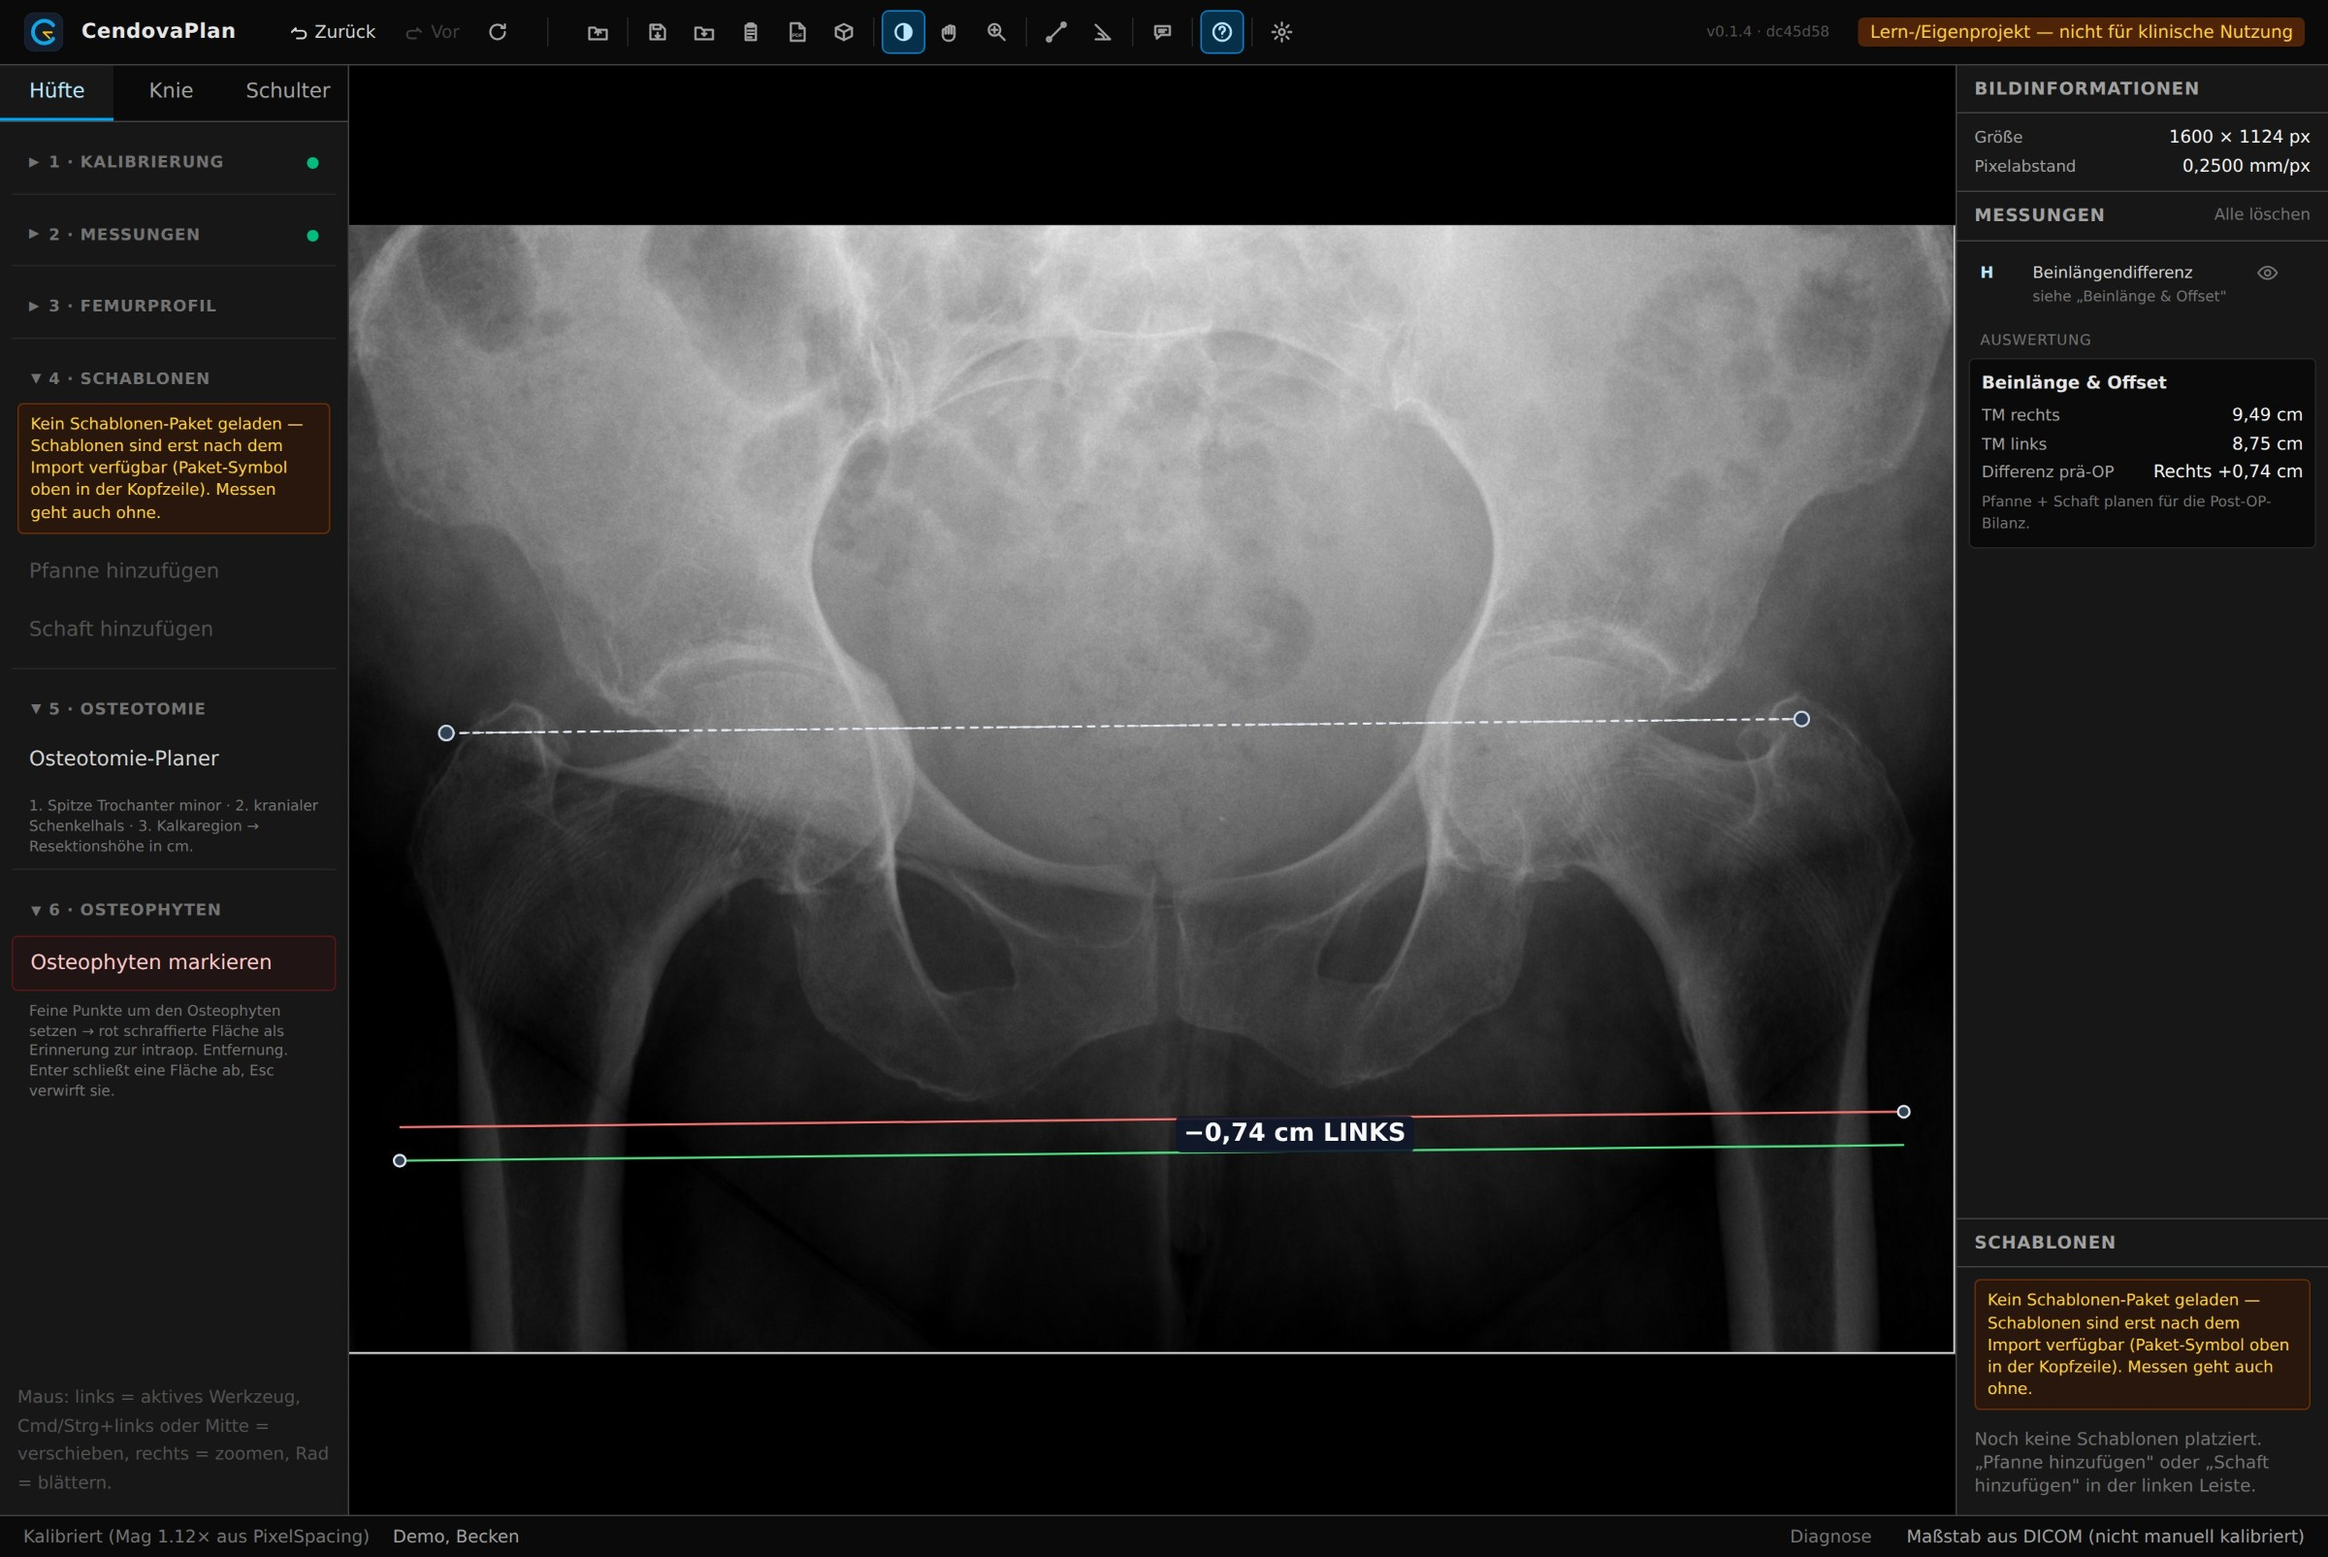
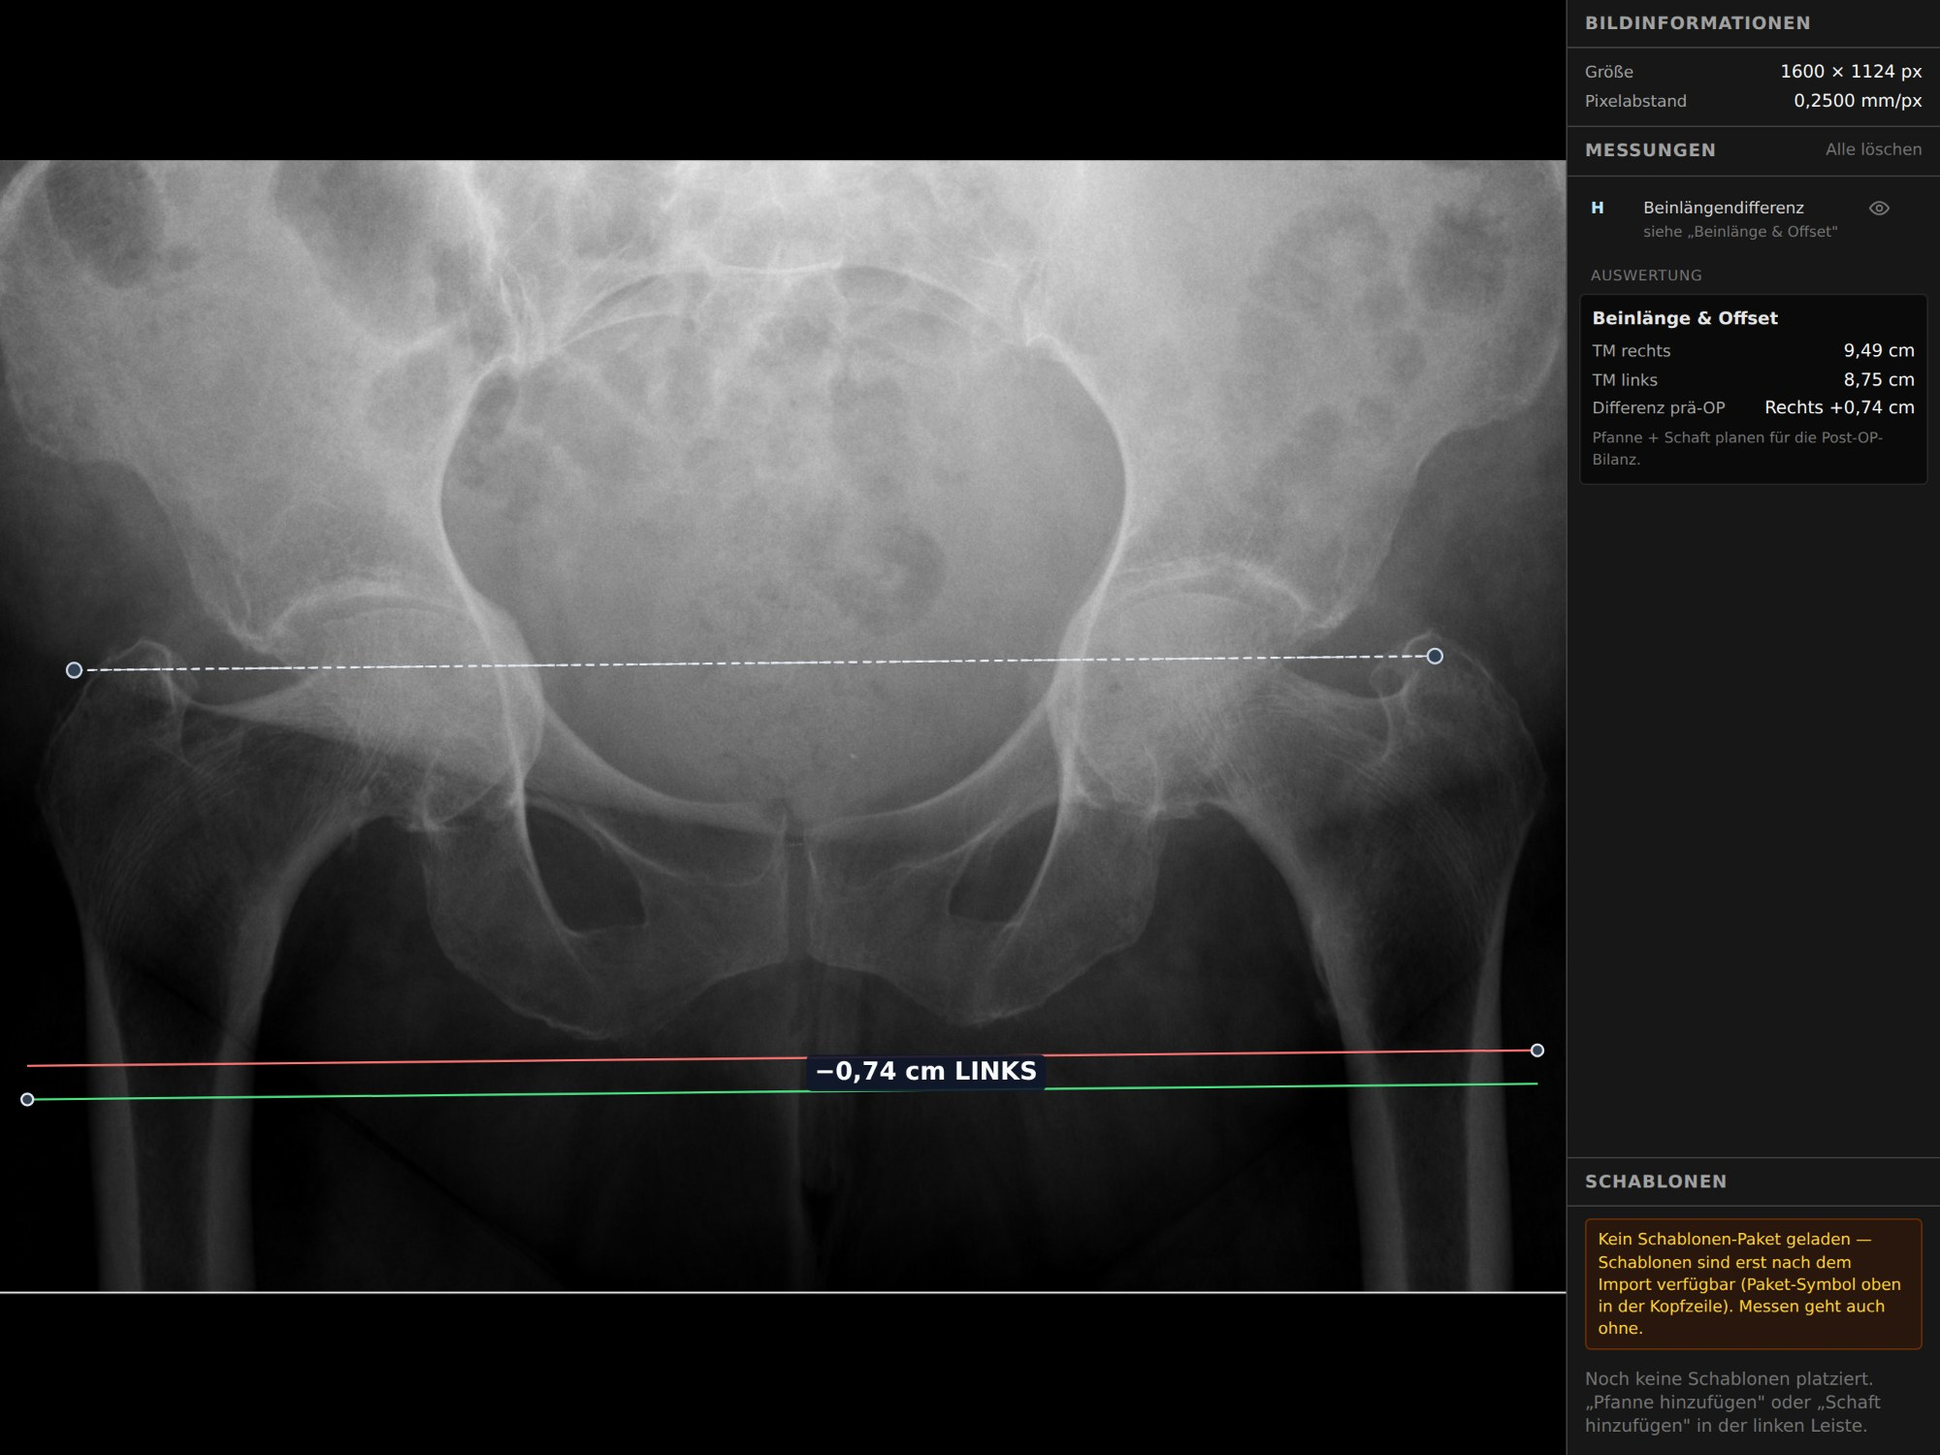
Website-Screenshots: 4:3-Kacheln ohne Beschnitt, HTO auf CC-BY-Ganzbein
- erzeuge.mjs: Kacheln = Viewport + Ergebnisspalte exakt 4:3 (Fensterbreite
  wird passend gesetzt), damit die Website-Kacheln (object-fit: cover)
  nichts mehr abschneiden. Neue Szenen: Kniezoom mit Beinachse/CPAK,
  Schulter-CSA; Szenen einzeln über SZENEN=… erzeugbar.
- Osteotomie-Kachel: öffnende HTO (Ziel 55 %) auf einer CC-BY-4.0-
  Ganzbeinaufnahme mit mildem Varus und erhaltenem Gelenkspalt
  (Stotter et al., KSSTA 2023, Abb. 1) statt des Hellerhoff-Ganzbeins mit
  Arthrose IV° — dort wäre keine Umstellung mehr indiziert.
  hole-ganzbein-varus.mjs lädt die Abbildung (Prüfsumme), schneidet das
  Panel zu und packt es per bild-zu-dicom.mjs in ein Demo-DICOM;
  landmarken-ganzbein-varus.json: 17 Punkte, Kanten objektiv per
  Gradientenprofil bestimmt (mHKA 176,6°, mMPTA 87,6°, mLDFA 90,2°).
- konvertiere.mjs: Hero 2400 px, Kacheln 2000×1500 JPEG.
- QUELLEN.md: Nachweis Stotter 2023 (CC BY 4.0) und Begründung;
  README-Bilder neu erzeugt.

Claude-Session: https://claude.ai/code/session_012brNVEzw5fZd3BC5PRrDkR

diff --git a/docs/screenshots/QUELLEN.md b/docs/screenshots/QUELLEN.md
@@ -5,9 +5,10 @@ anonymisierten Lehr-Röntgenbildern** — **keine** Patientendaten, **keine**
 Hersteller-Schablonen. Die Röntgenbilder wurden lokal über
 `scripts/bild-zu-dicom.mjs` in DICOM verpackt und in den Viewer geladen.
 
-Weil die zugrunde liegenden Röntgenbilder unter **CC BY-SA** stehen, stehen
-die davon abgeleiteten Screenshots (`.png`) unter derselben Lizenz —
-unabhängig von der Apache-2.0-Lizenz des Programmcodes.
+Weil die zugrunde liegenden Röntgenbilder unter **CC BY-SA** bzw. **CC BY**
+stehen, stehen die davon abgeleiteten Screenshots unter derselben Lizenz
+(CC BY-SA bleibt CC BY-SA, CC BY mit Namensnennung) — unabhängig von der
+Apache-2.0-Lizenz des Programmcodes.
 
 **Ausnahme:** reine UI-Mockups ohne Röntgenbild (Design-Vorlagen) enthalten
 nichts Fremdlizenziertes und stehen wie der Code unter Apache 2.0. Welcher
@@ -17,7 +18,19 @@ Eintrag was ist, steht in der Lizenzspalte der Tabelle.
 | --- | --- | --- | --- | --- |
 | `huefte-becken-ap.jpg` | „Protrusio acetabuli rechts mehr als links 81W – CR ap – 001" | Hellerhoff | [CC BY-SA 4.0](https://creativecommons.org/licenses/by-sa/4.0) | [Wikimedia Commons](https://commons.wikimedia.org/wiki/File:Protrusio_acetabuli_rechts_mehr_als_links_81W_-_CR_ap_-_001.jpg) |
 | `knie-ganzbein.jpg` | „Genu varum – Roe Ganzbein 001" | Hellerhoff | [CC BY-SA 3.0](https://creativecommons.org/licenses/by-sa/3.0) | [Wikimedia Commons](https://commons.wikimedia.org/wiki/File:Genu_varum_-_Roe_Ganzbein_001.jpg) |
+| Website-Kachel „Osteotomie" (`knie-osteotomie-kachel.jpg` auf cendova.de) | Abb. 1 (Panel oben links, Ausschnitt) aus: Stotter C, Klestil T, Chen K, Hummer A, Salzlechner C, Angele P, Nehrer S. *Artificial intelligence-based analyses of varus leg alignment and after high tibial osteotomy show high accuracy and reproducibility.* Knee Surg Sports Traumatol Arthrosc 2023;31:5885–5895 | Stotter et al. 2023 | [CC BY 4.0](https://creativecommons.org/licenses/by/4.0) — Ausschnitt, in DICOM umgewandelt, mit Messlinien überlagert | [doi:10.1007/s00167-023-07644-0](https://doi.org/10.1007/s00167-023-07644-0) · reproduzierbar über `scripts/website-screenshots/hole-ganzbein-varus.mjs` |
 | `cpah-matrix-mockup.png` | — (reines UI-Mockup, synthetische Beispielwerte, kein Röntgenbild) | eigenes Projekt | Apache 2.0 (wie der Code) | Design-Vorlage für `CpahMatrix.tsx`, siehe `docs/plans/2026-08-08-femurprofil-cpah.md` Task 6 |
+
+Warum ein zweites Ganzbein für die Osteotomie: Das Hellerhoff-Ganzbein zeigt
+eine fortgeschrittene Varusgonarthrose (17° Varus) — dort wäre keine
+Umstellung mehr indiziert, sondern eine Prothese. Das Stotter-Bild zeigt
+einen milden Varus bei erhaltenem Gelenkspalt (der Patient erhielt in der
+Studie eine öffnende HTO) — das fachlich passende Bild für die HTO-Planung.
+Pixelabstand 0,94 mm/px ist eine plausible Annahme (Femurlänge/Hüftkopf).
+
+**Website-Screenshots reproduzierbar erzeugen:** `npm run dev`, dann
+`node scripts/website-screenshots/hole-ganzbein-varus.mjs` (einmalig) und
+`node scripts/website-screenshots/erzeuge.mjs` → `konvertiere.mjs`.
 
 **Eigene Demo-Screenshots erzeugen** (ohne echte Patientendaten):
 
